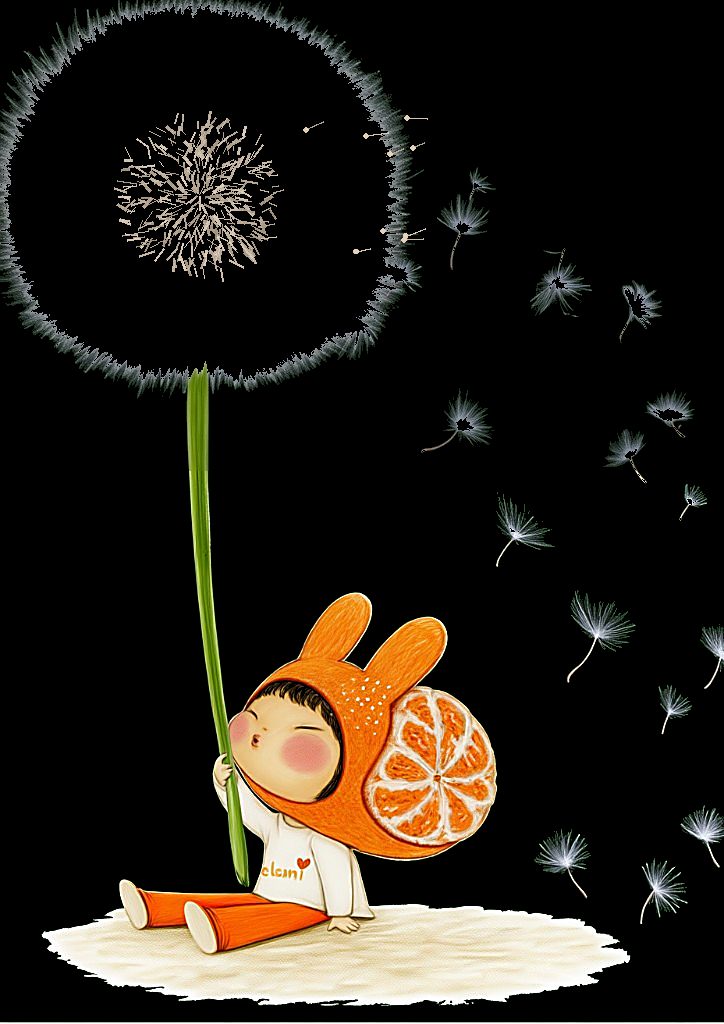
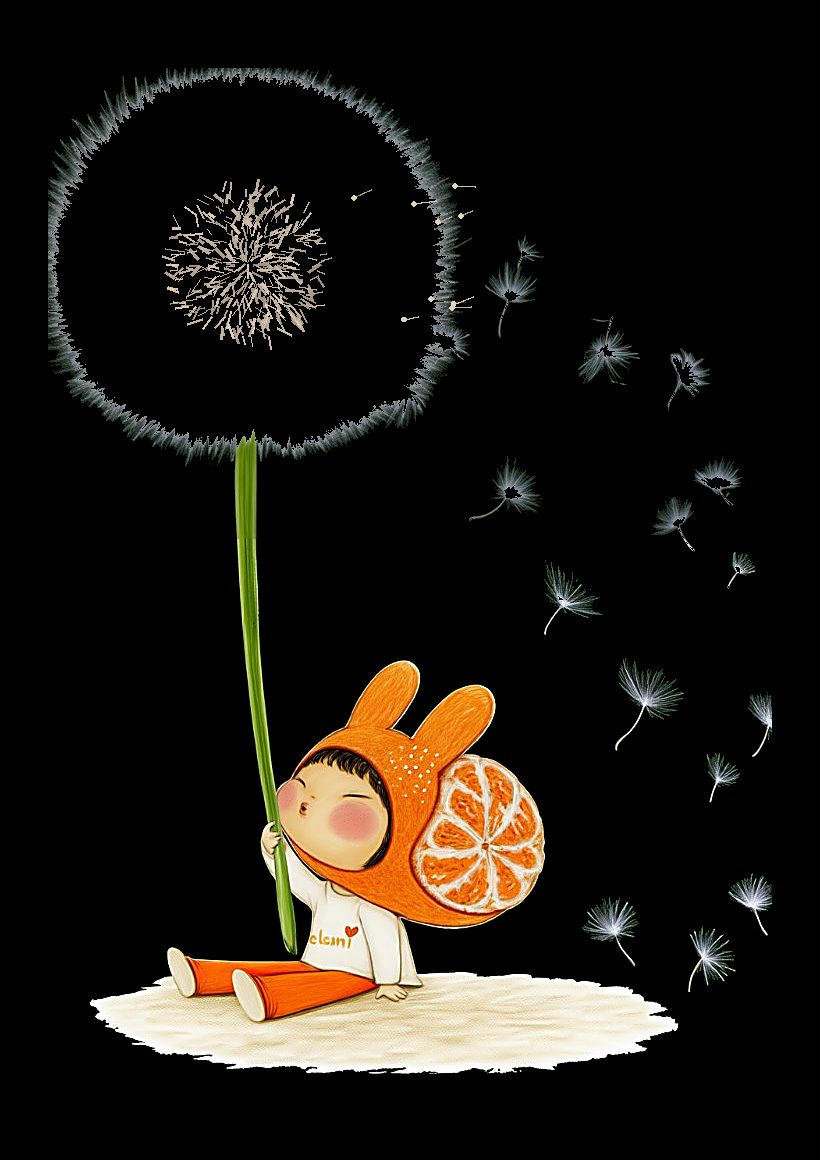
Polish dandelion layout and infer wish location

diff --git a/components/dandelion/Dandelion.tsx b/components/dandelion/Dandelion.tsx
@@ -57,18 +57,8 @@ function wishNote(wish: Wish) {
     .join(" · ");
 }
 
-function formatLocation(x: number, y: number) {
-  const latitude = 90 - y * 180;
-  const longitude = x * 360 - 180;
-  const lat = `${Math.abs(latitude).toFixed(1)}° ${latitude >= 0 ? "N" : "S"}`;
-  const lng = `${Math.abs(longitude).toFixed(1)}° ${longitude >= 0 ? "E" : "W"}`;
-  return `${lat}, ${lng}`;
-}
-
 export function Dandelion() {
   const [draft, setDraft] = useState("");
-  const [location, setLocation] = useState("");
-  const [pin, setPin] = useState<{ x: number; y: number } | null>(null);
   const [gender, setGender] = useState("");
   const [age, setAge] = useState("");
   const [phase, setPhase] = useState<Phase>("still");
@@ -121,8 +111,8 @@ export function Dandelion() {
       setError("");
       return;
     }
-    if (!location || !gender || !age) {
-      setError("drop a pin, then choose your gender and age");
+    if (!gender || !age) {
+      setError("choose your gender and age");
       return;
     }
     setBusy(true);
@@ -133,7 +123,7 @@ export function Dandelion() {
       const response = await fetch("/api/dandelion/wishes", {
         method: "POST",
         headers: { "Content-Type": "application/json" },
-        body: JSON.stringify({ wish, location, gender, age }),
+        body: JSON.stringify({ wish, gender, age }),
       });
       const data = (await response.json()) as {
         error?: string;
@@ -147,8 +137,6 @@ export function Dandelion() {
         return;
       }
       setDraft("");
-      setLocation("");
-      setPin(null);
       setGender("");
       setAge("");
       window.setTimeout(() => {
@@ -168,7 +156,7 @@ export function Dandelion() {
     <div className={`dandelion-field is-${phase}${opened ? " is-open" : ""}`}>
       <img
         className="dandelion-art"
-        src="/dandelion/clemi-blow.png?v=hd2"
+        src="/dandelion/clemi-blow.png?v=hd3"
         alt="Clementine blowing a fat dandelion"
       />
       {mounted && phase === "blowing"
@@ -271,102 +259,48 @@ export function Dandelion() {
             }}
           />
           {draft.trim() ? (
-            <>
-              <div className="dandelion-map-field">
-                <span className="dandelion-field-label">
-                  {location || "drop a pin where you are"}
-                </span>
-                <button
-                  className="dandelion-map"
-                  type="button"
-                  aria-label="Select your approximate location on the world map"
-                  onClick={(event) => {
-                    const bounds = event.currentTarget.getBoundingClientRect();
-                    const keyboard = event.detail === 0;
-                    const x = keyboard
-                      ? 0.5
-                      : Math.min(
-                          1,
-                          Math.max(
-                            0,
-                            (event.clientX - bounds.left) / bounds.width,
-                          ),
-                        );
-                    const y = keyboard
-                      ? 0.5
-                      : Math.min(
-                          1,
-                          Math.max(
-                            0,
-                            (event.clientY - bounds.top) / bounds.height,
-                          ),
-                        );
-                    setPin({ x, y });
-                    setLocation(formatLocation(x, y));
+            <div className="dandelion-extras">
+              <label>
+                <span>gender</span>
+                <select
+                  value={gender}
+                  required
+                  aria-label="gender"
+                  onChange={(event) => {
+                    setGender(event.target.value);
                     setError("");
                   }}
                 >
-                  <svg viewBox="0 0 360 180" aria-hidden="true">
-                    <path d="M19 51 38 31l27-9 18 9 16-5 21 16-9 14-20 2-9 17-15 5-6 27-17 12-9-24-15-8-9-20Zm91 75 15-17 13 8 9 28-11 27-13-8-6-22Zm50-83 22-17 31 1 9 12 24-1 22 12 27-4 29 17-7 17-23 5-11 23-18-2-8 20-13 13-16-16-7-28-18-11-15-23-27-3Zm111 88 18-11 27 7 18 18-8 16-24 5-17-12Z" />
-                    <path
-                      className="dandelion-map-lines"
-                      d="M0 45h360M0 90h360M0 135h360M90 0v180M180 0v180M270 0v180"
-                    />
-                  </svg>
-                  {pin ? (
-                    <span
-                      className="dandelion-pin"
-                      style={{
-                        left: `${pin.x * 100}%`,
-                        top: `${pin.y * 100}%`,
-                      }}
-                    />
-                  ) : null}
-                </button>
-              </div>
-              <div className="dandelion-extras">
-                <label>
-                  <span>gender</span>
-                  <select
-                    value={gender}
-                    required
-                    aria-label="gender"
-                    onChange={(event) => {
-                      setGender(event.target.value);
-                      setError("");
-                    }}
-                  >
-                    <option value="" disabled>
-                      select
-                    </option>
-                    <option value="m">m</option>
-                    <option value="f">f</option>
-                    <option value="other">other</option>
-                    <option value="fruit">fruit</option>
-                    <option value="bunny">bunny</option>
-                  </select>
-                </label>
-                <label>
-                  <span>age</span>
-                  <input
-                    type="number"
-                    min={10}
-                    max={100}
-                    step={1}
-                    required
-                    value={age}
-                    placeholder="10–100"
-                    inputMode="numeric"
-                    autoComplete="off"
-                    aria-label="age"
-                    onChange={(event) => {
-                      setAge(event.target.value);
-                      setError("");
-                    }}
-                  />
-                </label>
-              </div>
-            </>
+                  <option value="" disabled>
+                    select
+                  </option>
+                  <option value="m">m</option>
+                  <option value="f">f</option>
+                  <option value="other">other</option>
+                  <option value="fruit">fruit</option>
+                  <option value="bunny">bunny</option>
+                </select>
+              </label>
+              <label>
+                <span>age</span>
+                <input
+                  type="number"
+                  min={10}
+                  max={100}
+                  step={1}
+                  required
+                  value={age}
+                  placeholder="10–100"
+                  inputMode="numeric"
+                  autoComplete="off"
+                  aria-label="age"
+                  onChange={(event) => {
+                    setAge(event.target.value);
+                    setError("");
+                  }}
+                />
+              </label>
+            </div>
           ) : null}
           <button type="submit" className="dandelion-blow">
             blow

diff --git a/app/api/dandelion/wishes/route.ts b/app/api/dandelion/wishes/route.ts
@@ -30,6 +30,29 @@ function openField(response: NextResponse, count: number) {
   response.cookies.set(DANDELION_COUNT_COOKIE, String(count), cookieOptions());
 }
 
+function decodedHeader(value: string | null) {
+  if (!value) return "";
+  try {
+    return decodeURIComponent(value).replace(/\s+/g, " ").trim();
+  } catch {
+    return value.replace(/\s+/g, " ").trim();
+  }
+}
+
+function visitorLocation(request: Request) {
+  const city = decodedHeader(request.headers.get("x-vercel-ip-city")).slice(
+    0,
+    30,
+  );
+  const country = decodedHeader(
+    request.headers.get("x-vercel-ip-country"),
+  )
+    .toUpperCase()
+    .replace(/[^A-Z]/g, "")
+    .slice(0, 2);
+  return [city, country].filter(Boolean).join(", ");
+}
+
 export async function GET() {
   const jar = await cookies();
   const opened = hasBlown(jar.get(DANDELION_COOKIE)?.value);
@@ -53,7 +76,6 @@ export async function GET() {
 export async function POST(request: Request) {
   const payload = (await request.json()) as {
     wish?: string;
-    location?: string;
     gender?: string;
     age?: string;
   };
@@ -61,10 +83,13 @@ export async function POST(request: Request) {
   if (!wish) {
     return NextResponse.json({ error: "Whisper a little more." }, { status: 400 });
   }
-  const extras = cleanExtras(payload);
-  if (!extras.location || !extras.gender || !extras.age) {
+  const extras = cleanExtras({
+    ...payload,
+    location: visitorLocation(request),
+  });
+  if (!extras.gender || !extras.age) {
     return NextResponse.json(
-      { error: "Drop a pin, then choose your gender and age." },
+      { error: "Choose your gender and age." },
       { status: 400 },
     );
   }

diff --git a/lib/dandelion.ts b/lib/dandelion.ts
@@ -90,12 +90,12 @@ export function cleanExtras(raw: {
   );
   const gender = cleanLine(String(raw.gender ?? ""), DANDELION_GENDER_MAX);
   const age = Number(String(raw.age ?? "").trim());
+  const validLocation =
+    location &&
+    (/^\d{1,2}(?:\.\d)° [NS], \d{1,3}(?:\.\d)° [EW]$/.test(location) ||
+      /^[\p{L}\p{M}0-9 .,'’()-]{2,40}$/u.test(location));
   return {
-    location:
-      location &&
-      /^\d{1,2}(?:\.\d)° [NS], \d{1,3}(?:\.\d)° [EW]$/.test(location)
-        ? location
-        : undefined,
+    location: validLocation ? location : undefined,
     gender: DANDELION_GENDERS.includes(
       gender as (typeof DANDELION_GENDERS)[number],
     )

diff --git a/app/(volume)/privacy/page.tsx b/app/(volume)/privacy/page.tsx
@@ -19,8 +19,10 @@ export default function PrivacyPage() {
         <h2>Wishes and introductions</h2>
         <p>
           Dandelion wishes and tiny introductions are saved so the site can
-          display its shared little world. Optional wish details may be visible
-          to people who have contributed a wish.
+          display its shared little world. A wish is automatically labeled with
+          the approximate city and country supplied by the website host; raw IP
+          addresses are not attached to wishes. Wish details may be visible to
+          people who have contributed a wish.
         </p>
       </section>
       <section>

diff --git a/app/globals.css b/app/globals.css
@@ -1558,6 +1558,12 @@ input {
   color: rgba(246, 241, 232, 0.48);
 }
 
+.dandelion-form > input {
+  border-bottom: 0;
+  outline: 0;
+  box-shadow: none;
+}
+
 .dandelion-map-field {
   width: 100%;
   margin-top: 0.7rem;
